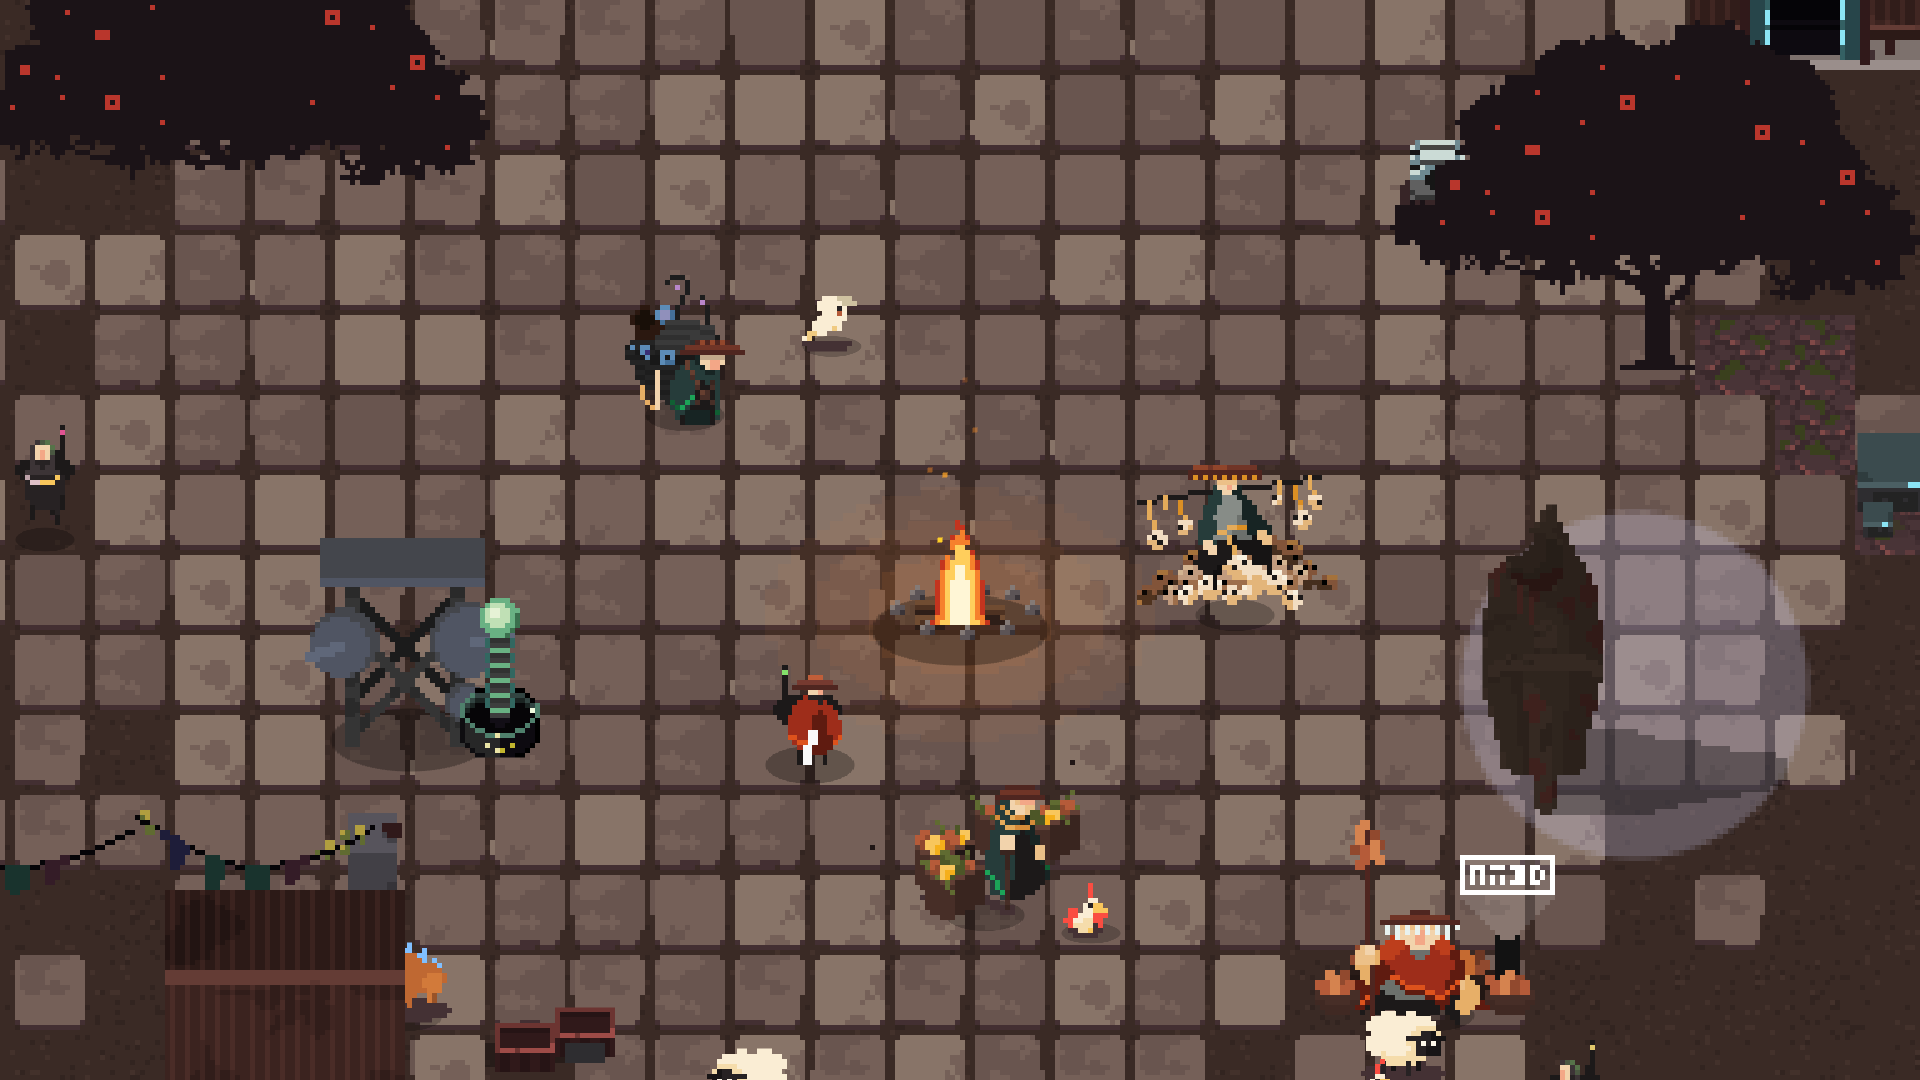
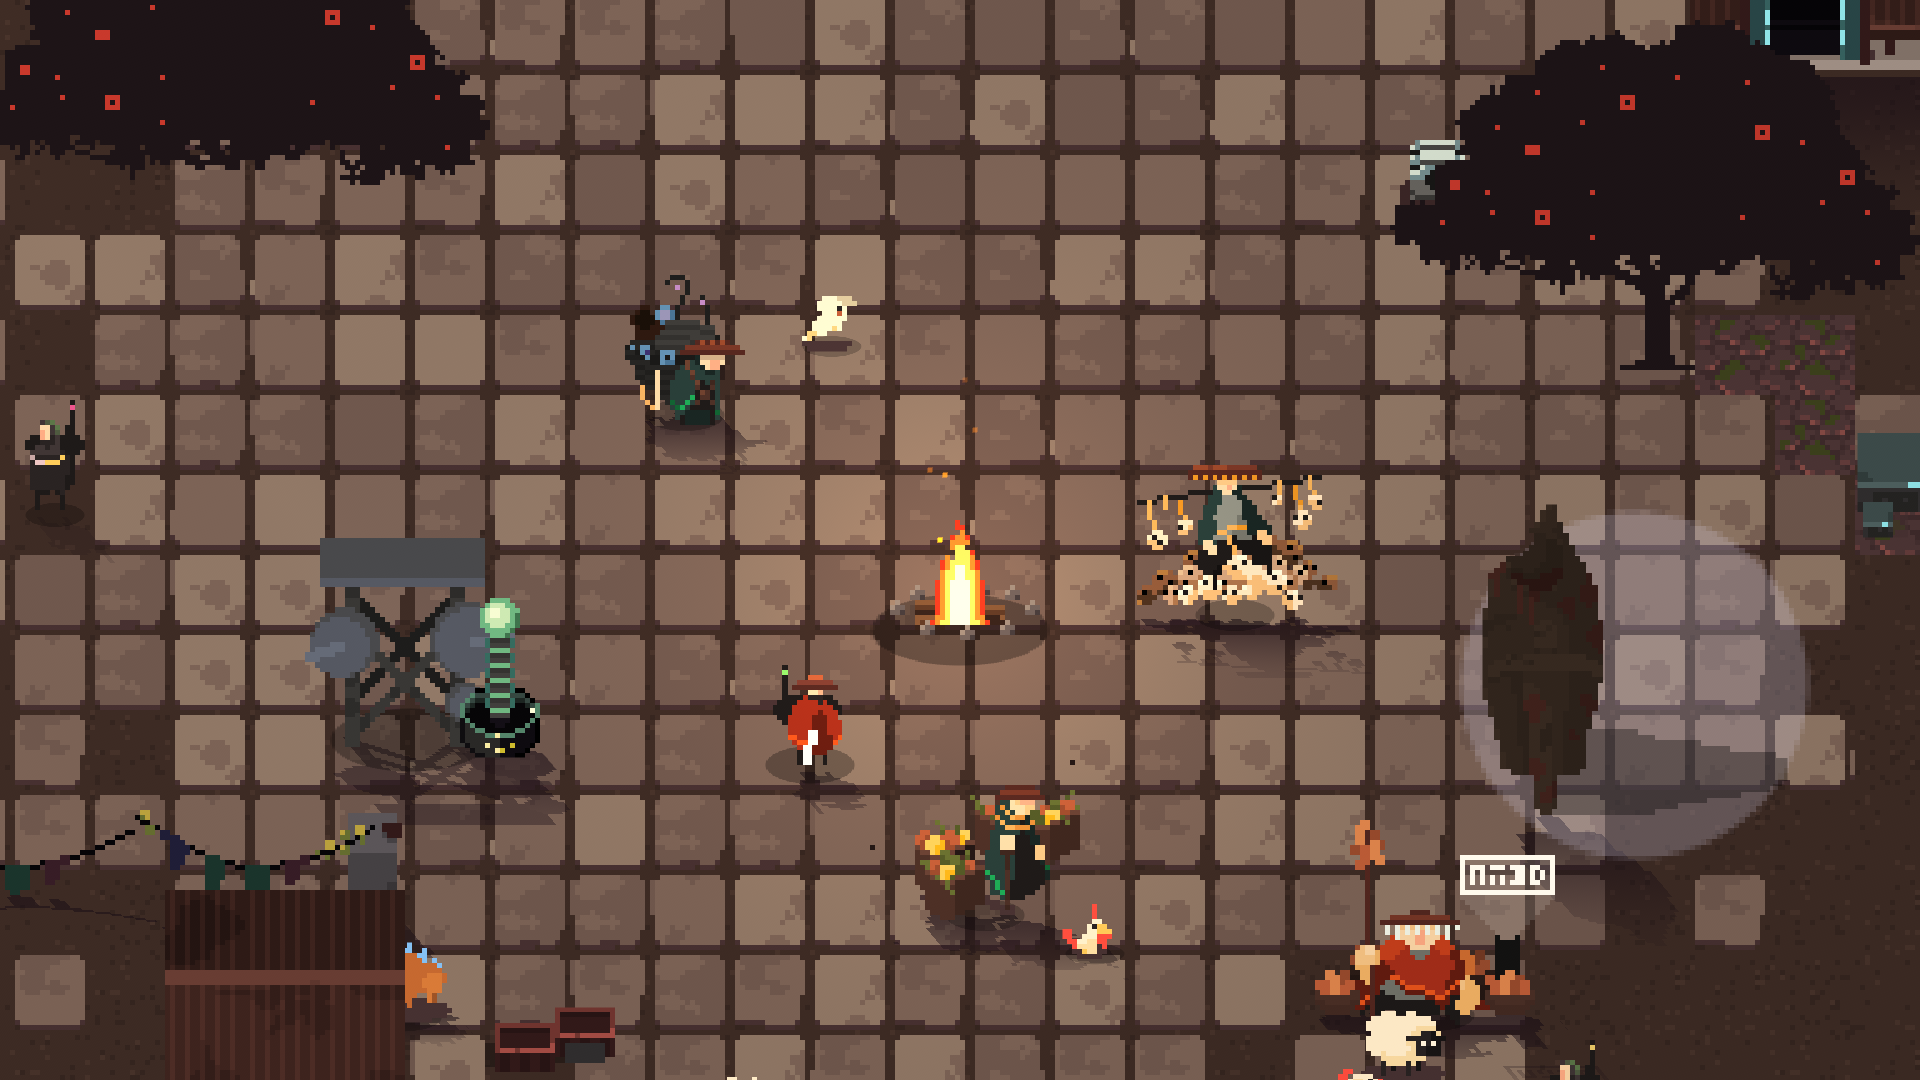
v0.18: README and website (light and shade)

diff --git a/docs/es/index.html b/docs/es/index.html
@@ -202,7 +202,7 @@ dialog.lb .pv { left: 14px; } dialog.lb .nx { right: 14px; }
       <a class="btn primary" href="https://detroit-0s.itch.io/stranded-the-ashen-relics">Descargar gratis en itch.io</a>
       <a class="btn ghost" href="https://github.com/detroit0s/stranded-ashen-relics/releases">Todas las versiones en GitHub</a>
     </div>
-    <p class="latest rise">Última versión: v0.17</p>
+    <p class="latest rise">Última versión: v0.18</p>
   </div>
   <button class="press" aria-label="La historia">PULSA START</button>
 </header>
@@ -247,14 +247,14 @@ dialog.lb .pv { left: 14px; } dialog.lb .nx { right: 14px; }
     <p class="yt-note">Se reproduce desde YouTube al hacer clic. O míralo en <a href="https://www.youtube.com/watch?v=DrMd32nimXE">YouTube</a></p>
   </section>
   <section class="reveal" id="s4" data-heart>
-    <h2>Novedades de la v0.17</h2>
+    <h2>Novedades</h2>
     <div class="cards">
-<div class="card"><b>El sol se mueve</b>Cada corazón de reliquia que tomas acerca el sol de Karush al atardecer, y el mundo cambia con él. (Baja por esta página y mira.)</div>
+<div class="card"><b>Luz y sombra</b>Nuevo en la v0.18: hogueras, lámparas, cristales y los rayos de los Guardianes iluminan el suelo a su alrededor; el atardecer es bajo y cálido, y las mazmorras y la primera noche son oscuras de verdad.</div>
+<div class="card"><b>Cada región tiene su propia luz</b>La bruma del Desierto de Ceniza, el calor de las Tierras de Brasa, la penumbra del pantano, el brillo de la nieve en la Pale Reach, y un ambiente propio en cada dimensión.</div>
+<div class="card"><b>El sol se mueve</b>Cada corazón de reliquia que tomas acerca el sol de Karush al atardecer, y cada sombra se alarga. (Baja por esta página y mira.)</div>
 <div class="card"><b>Canciones</b>Aprende cuatro versos de los Dustborn y tócalos con cuatro notas: Sueño, Despertar, Descanso y Regreso.</div>
-<div class="card"><b>Gente con historias</b>Misiones secundarias en las que tú decides.</div>
 <div class="card"><b>Guardas de los Guardianes</b>Solo el poder de su propia mazmorra rompe la guarda de cada Guardián, y cada mazmorra tiene su giro.</div>
-<div class="card"><b>Lleva los corazones</b>Hasta tres a la vez, cada uno con un don y un precio.</div>
-<div class="card"><b>Y más</b>Un mapa de verdad, pesca, un campo de tiro, una cadena de trueques, la primera noche de Karush y un tercer final oculto.</div>
+<div class="card"><b>Y más</b>Gente con historias, corazones que llevar, un mapa de verdad, pesca, un campo de tiro, una cadena de trueques, la primera noche de Karush y un tercer final oculto.</div>
     </div>
   </section>
   <section class="reveal" id="s5" data-heart>

diff --git a/docs/index.html b/docs/index.html
@@ -202,7 +202,7 @@ dialog.lb .pv { left: 14px; } dialog.lb .nx { right: 14px; }
       <a class="btn primary" href="https://detroit-0s.itch.io/stranded-the-ashen-relics">Download free on itch.io</a>
       <a class="btn ghost" href="https://github.com/detroit0s/stranded-ashen-relics/releases">Every version on GitHub</a>
     </div>
-    <p class="latest rise">Latest version: v0.17</p>
+    <p class="latest rise">Latest version: v0.18</p>
   </div>
   <button class="press" aria-label="The story">PRESS START</button>
 </header>
@@ -247,14 +247,14 @@ dialog.lb .pv { left: 14px; } dialog.lb .nx { right: 14px; }
     <p class="yt-note">Plays from YouTube when you click it. Or watch it on <a href="https://www.youtube.com/watch?v=DrMd32nimXE">YouTube</a></p>
   </section>
   <section class="reveal" id="s4" data-heart>
-    <h2>New in v0.17</h2>
+    <h2>What's new</h2>
     <div class="cards">
-<div class="card"><b>The sun moves</b>Every relic-heart you take drags Karush's sun a notch closer to dusk, and the world changes with it. (Scroll this page and watch.)</div>
+<div class="card"><b>Light and shade</b>New in v0.18: fires, lamps, crystals and Guardian beams light the ground around them; dusk is low and warm, and the dungeons and the first night are truly dark.</div>
+<div class="card"><b>Every region has its own light</b>The haze of the Ash Desert, the heat of the Ember Wastes, the murk of the mire, the snow glare of the Pale Reach, and a mood for every dimension.</div>
+<div class="card"><b>The sun moves</b>Every relic-heart you take drags Karush's sun a notch closer to dusk, and every shadow grows longer. (Scroll this page and watch.)</div>
 <div class="card"><b>Songs</b>Learn four Dustborn verses and play them with four notes: Sleep, Waking, Rest and Return.</div>
-<div class="card"><b>People with stories</b>Side stories with a choice in them.</div>
 <div class="card"><b>Guardian wards</b>Only the power from its own dungeon breaks a Guardian's ward, and every dungeon has a twist.</div>
-<div class="card"><b>Wear the hearts</b>Up to three at once, each with a gift and a price.</div>
-<div class="card"><b>And more</b>A real map, fishing, a shooting range, a trading chain, Karush's first night and a hidden third ending.</div>
+<div class="card"><b>And more</b>People with stories, hearts to wear, a real map, fishing, a shooting range, a trading chain, Karush's first night and a hidden third ending.</div>
     </div>
   </section>
   <section class="reveal" id="s5" data-heart>

diff --git a/README.md b/README.md
@@ -14,7 +14,7 @@ A top-down action-adventure in the spirit of Zelda. The colony-ship *Perdita* ha
 
 One app for both Apple Silicon and Intel Macs.
 
-1. Download `STRANDED-v0.17-macOS.zip` and double-click it to unzip `STRANDED.app`.
+1. Download `STRANDED-v0.18-macOS.zip` and double-click it to unzip `STRANDED.app`.
 2. The first time, **right-click the app ▸ Open**, then click **Open** again. The game isn't notarized by Apple, so macOS asks once.
    If it still refuses, go to **System Settings ▸ Privacy & Security** and click **Open Anyway**.
 
@@ -22,7 +22,7 @@ One app for both Apple Silicon and Intel Macs.
 
 For Android 7.1 or newer, on a 64-bit phone or tablet.
 
-1. Download `STRANDED-v0.17-android.apk` on your phone (or copy it over from a computer) and open it.
+1. Download `STRANDED-v0.18-android.apk` on your phone (or copy it over from a computer) and open it.
 2. The game isn't on the Play Store, so Android asks first: tap **Settings**, allow installing from that app (your browser or Files), then tap **Install**. If Play Protect warns about an unknown app, choose **Install anyway**.
 
 ## What's inside
@@ -32,6 +32,7 @@ For Android 7.1 or newer, on a 64-bit phone or tablet.
 - **Things to cut, smash and dig up**: tall grass, pots, crates, barrels and bushes, and buried caches
 - **8 dimensions and 12 Echo Rifts**: puzzle rooms floating over the void, each dungeon with a twist of its own
 - **A sun that moves**: every relic-heart you take drags Karush's sun closer to dusk, and the world changes with it
+- **Light and shade**: fires, lamps and Guardian beams light the ground; every region has its own light, the dungeons and the night are dark, and everything casts a shadow that grows longer as the sun sinks
 - **Four Dustborn verses to sing**, **relic-hearts to wear**, fishing, a shooting range and a trading chain
 - **8 Relic Guardians**, **THE UNMADE** in three shapes, and **7 mini-bosses**
 - **7 relic powers**, **36 people** to meet, **21 side quests**, **7 hunts** and **73 codex entries**
